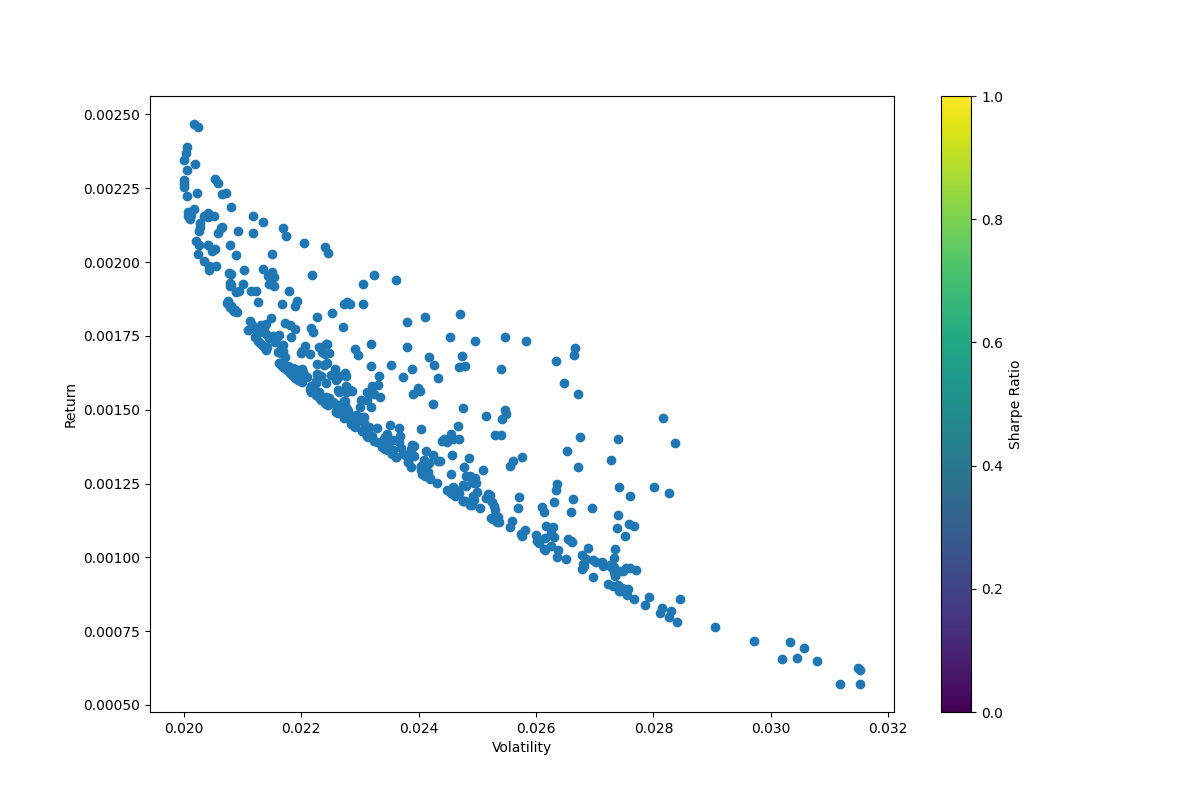
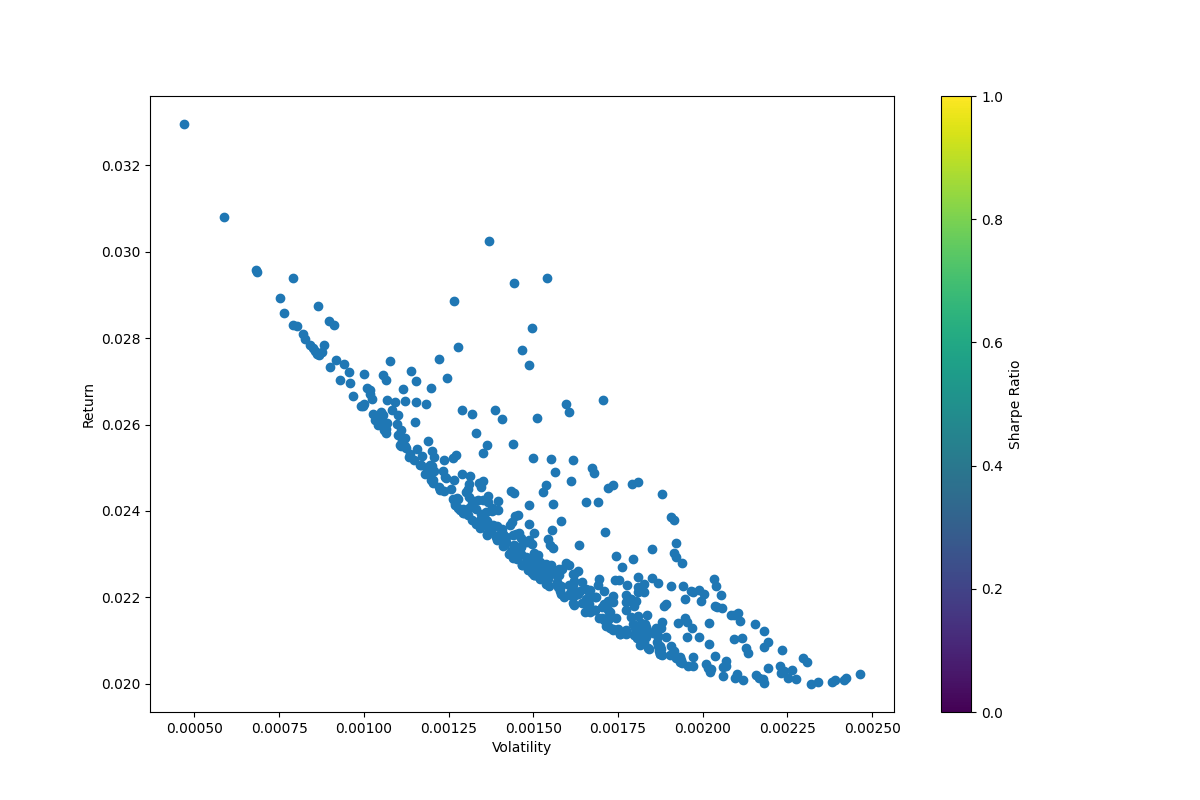
working markowitz graph

diff --git a/frontend/src/larger_projects/porfolio_optimisation/MarkowitzChartDisplay.tsx b/frontend/src/larger_projects/porfolio_optimisation/MarkowitzChartDisplay.tsx
@@ -1,9 +1,27 @@
 import { MarkowitzResponse } from "./MarkowitzResponse.types";
+import { ScatterChart } from '@mui/x-charts/ScatterChart';
+
 
 const MarkowitzChartDisplay = ({ data } : { data: MarkowitzResponse }) => {
+  const chartSetting = {
+    yAxis: [
+      {
+        label: 'Return (%)',
+        width: 60,
+      },
+    ],
+    height: 500,
+  };
+
   return (
     <div>
-
+      <ScatterChart
+        dataset={data.points}
+        series={[
+          { datasetKeys: { x: 'x', y: 'y' } },
+        ]}
+        {...chartSetting}
+      />
     </div>
   )
 }

diff --git a/frontend/src/larger_projects/porfolio_optimisation/MarkowitzResponse.types.ts b/frontend/src/larger_projects/porfolio_optimisation/MarkowitzResponse.types.ts
@@ -1,5 +1,5 @@
 export type MarkowitzResponse = {
-  points: number[][];
+  points: {[key: string]: number}[];
   weights: {[key: string]: number}
   efficient_frontier: number[][]
   expected_return: number;

diff --git a/backend/app/services/markowitz.py b/backend/app/services/markowitz.py
@@ -3,7 +3,7 @@ import pandas as pd
 import matplotlib.pyplot as plt
 
 from .util.asset_utils import get_historical_tick_data
-
+from ..schemas.markowitz_schema import MarkowitzResponse
 
 N_PORTFOLIOS = 500
 
@@ -13,29 +13,49 @@ def simulate_markowitz_optimization(assets: list[str], timeframe: float, r: floa
 
   returns = asset_prices.pct_change().dropna()
   mean_returns = returns.mean().values
-  cov_matrix = returns.cov().values
-    
-  means, stds = np.column_stack([simulate_portfolio(mean_returns, cov_matrix) for _ in range(N_PORTFOLIOS)])
-  # plt.figure(figsize=(12,8))
-  # plt.scatter(stds, means, cmap='viridis')
-  # plt.colorbar(label='Sharpe Ratio')
-  # plt.xlabel('Volatility')
-  # plt.ylabel('Return')
-  # plt.savefig('cover.png')
-  # plt.show()
+  mean_returns = (1 + mean_returns)**252 - 1 # annualise
+  cov_matrix = returns.cov().values * 252
 
-  return None
+  points = []
+  weights_list = []
+
+  for _ in range(N_PORTFOLIOS):
+    w = rand_weights(len(assets))
+    mu = np.dot(w, mean_returns)
+    sigma = np.sqrt(w @ cov_matrix @ w.T)
+    points.append([sigma, mu])
+    weights_list.append(w)
+
+  efficient_frontier = sorted(points, key=lambda x: x[0])
+
+  sharpe_ratios = [(p[1] - r) / p[0] for p in points]
+  best_idx = int(np.argmax(sharpe_ratios))
+
+  best_point = points[best_idx]
+  best_weights = weights_list[best_idx]
+  best_vol = best_point[0]
+  best_ret = best_point[1]
+  best_sharpe = sharpe_ratios[best_idx]
+
+  weight_dict = {asset: float(best_weights[i]) for i, asset in enumerate(assets)}
+
+  return MarkowitzResponse(
+    points=format_points_for_mui(points),
+    weights=weight_dict,
+    efficient_frontier=efficient_frontier,
+    expected_return=float(best_ret),
+    sharpe=float(best_sharpe),
+    volatility=float(best_vol)
+  )
   
-
-def simulate_portfolio(p, c):
-  w = rand_weights(p.shape[0])
-  mu = np.dot(w, p)
-  sigma = np.sqrt(w @ c @ w.T)
-  return mu, sigma
-
 
 def rand_weights(n):
     k = np.random.rand(n)
     return k / sum(k)
   
 
+def format_points_for_mui(points: list[list[float]]) -> list[dict[str, float]]:
+  return [
+    {"x": float(sigma), "y": float(mu)}
+    for sigma, mu in points
+  ]

diff --git a/backend/app/schemas/markowitz_schema.py b/backend/app/schemas/markowitz_schema.py
@@ -8,8 +8,8 @@ class MarkowitzRequest(BaseModel):
 
 
 class MarkowitzResponse(BaseModel):
-  points: list[list[float]]
-  weights: dict[str, int]
+  points: list[dict[str, float]]
+  weights: dict[str, float]
   efficient_frontier: list[list[float]]
   expected_return: float
   sharpe: float
